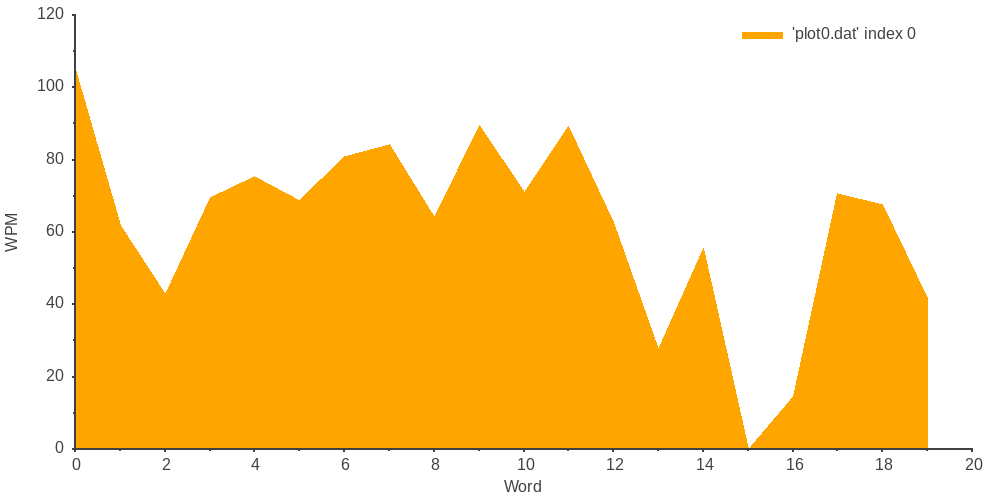
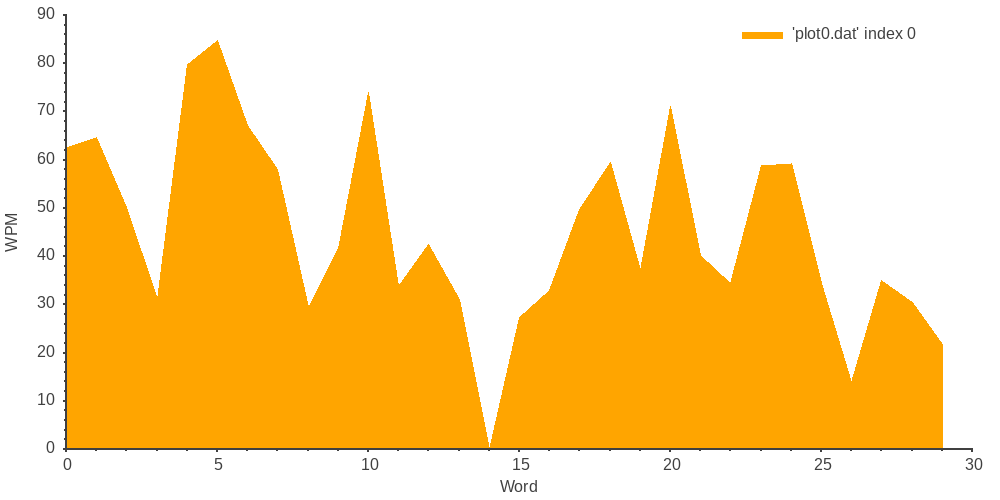
better WPM calculate

diff --git a/src/main.cpp b/src/main.cpp
@@ -39,6 +39,18 @@ vector<string> loadWordsFromFile(const string &filepath) {
   return words;
 }
 
+// Default words to use if file loading fails or file is empty
+const std::vector<std::string> default_words = {
+    "the", "quick", "brown", "fox", "jumps", "over", "the", "lazy", "dog",
+    "apple", "banana", "orange", "grape", "strawberry", "blueberry", "peach",
+    "house", "car", "tree", "flower", "river", "mountain", "ocean",
+    "happy", "sad", "angry", "excited", "calm", "brave", "kind",
+    "book", "pen", "paper", "computer", "phone", "watch", "shoes",
+    "walk", "run", "jump", "sleep", "eat", "drink", "read", "write",
+    "sun", "moon", "star", "cloud", "rain", "snow", "wind",
+    "friend", "family", "teacher", "student", "doctor", "artist", "musician"
+};
+
 int main(int argc, char *argv[]) {
   initDatabase(DB_PATH);
 
@@ -102,9 +114,14 @@ int main(int argc, char *argv[]) {
     cin.ignore(); // Consume the newline character left by previous cin
     cin.get();    // Wait for user to press Enter
   } else if (start_test) {
-    vector<string> all_words = loadWordsFromFile("/home/nirantar/Downloads/Downloads/bashi/cpp/files/typi/src/words.txt");
+    vector<string> all_words = loadWordsFromFile("src/words.txt");
     if (all_words.empty()) {
-      cerr << "No words loaded. Exiting test." << endl;
+      cerr << "No words loaded from file. Using default words." << endl;
+      all_words = default_words;
+    }
+
+    if (all_words.empty()) {
+      cerr << "No words available. Exiting test." << endl;
       cin.ignore();
       cin.get();
       return 1;
@@ -150,6 +167,7 @@ int main(int argc, char *argv[]) {
     bool started = false;
     string current_word;
     int correct_chars_total = 0;
+    std::vector<TypingEvent> typing_events;
 
     total_start_time = high_resolution_clock::now();
     word_start_time = total_start_time;
@@ -191,6 +209,7 @@ int main(int argc, char *argv[]) {
         }
         break;
       } else if (isprint(c)) {
+        typing_events.push_back({c, high_resolution_clock::now()});
         typed += c;
 
         if (c == ' ') {
@@ -227,16 +246,32 @@ int main(int argc, char *argv[]) {
     disableRawMode(); // restore terminal settings
     cout << "\n\n";
 
-    duration<double> total_duration = total_end_time - total_start_time;
-    double total_minutes = total_duration.count() / 60.0;
+    double total_typing_seconds = 0.0;
+    if (typing_events.size() > 1) {
+        for (size_t i = 0; i < typing_events.size() - 1; ++i) {
+            total_typing_seconds += duration<double>(typing_events[i+1].timestamp - typing_events[i].timestamp).count();
+        }
+    }
+    double total_minutes = total_typing_seconds / 60.0;
 
     int total_chars = expected.length() - (n - 1); // remove n-1 spaces
-    int grossWPM = ((res.first / 5.0) / total_minutes);
-    int netWPM = (grossWPM - (res.second / total_minutes));
+    int grossWPM = 0;
+    int netWPM = 0;
+
+    if (total_typing_seconds > 0.001 && typing_events.size() > 1) {
+        double gross_cps = (static_cast<double>(typing_events.size() - 1) / total_typing_seconds);
+        grossWPM = static_cast<int>((gross_cps * 60.0) / 5.0);
+        netWPM = (grossWPM - (res.second / total_minutes));
+    } else if (total_typing_seconds > 0.001 && typing_events.size() == 1) {
+        // Handle case with only one key press (no duration between events)
+        // In this scenario, CPS is undefined or 0, so WPM should also be 0.
+        grossWPM = 0;
+        netWPM = 0;
+    }
 
     cout << fixed << setprecision(2);
     printBold("Time taken: ");
-    cout << total_duration.count() << " seconds (" << total_minutes << " minutes)" << endl;
+    cout << total_typing_seconds << " seconds (total typing time) (" << total_minutes << " minutes)" << endl;
     printBold("Correct: ");
     cout << res.first << ", Incorrect: " << res.second << endl;
     printBold("Gross WPM: ");
@@ -253,7 +288,7 @@ int main(int argc, char *argv[]) {
     result.net_wpm = netWPM;
     result.correct_chars = res.first;
     result.incorrect_chars = res.second;
-    result.time_taken_seconds = total_duration.count();
+    result.time_taken_seconds = total_typing_seconds;
     insertResult(DB_PATH, result);
 
     vector<int> x;
@@ -269,7 +304,6 @@ int main(int argc, char *argv[]) {
 #else                                                                                                                                 
       system("xdg-open plot_output.png");                                                                                               
 #endif 
-    system("xdg-open plot_output.png");
   }
 
   return 0;

diff --git a/include/database.h b/include/database.h
@@ -4,6 +4,7 @@
 #include <string>
 #include <vector>
 #include <tuple>
+#include <chrono>
 
 struct TypingResult {
     std::string timestamp;
@@ -13,6 +14,12 @@ struct TypingResult {
     int incorrect_chars;
     double time_taken_seconds;
 };
+
+struct TypingEvent {
+    char character;
+    std::chrono::high_resolution_clock::time_point timestamp;
+};
+
 
 void initDatabase(const std::string& db_path);
 void insertResult(const std::string& db_path, const TypingResult& result);
